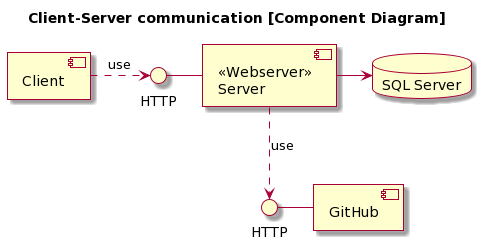
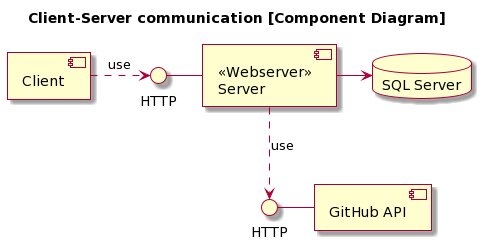
update deployed app section &
Slightly update diagram

Changed region(s): [[0.77, 0.7459, 0.924, 0.9754], [0.616, 0.7746, 0.6468, 0.9467]]

diff --git a/docs/report.md b/docs/report.md
@@ -22,15 +22,19 @@ Here comes a description of our domain model.
 
 ## Architecture of deployed application
 
-UML component diagram shows components, provided and required interfaces, ports, and relationships between them.
+<!-- UML component diagram shows components, provided and required interfaces, ports, and relationships between them. -->
 
-UML deployment diagrams overview, common types of deployment diagrams - manifestation diagram, specification and instance level deployment diagram.
+The following component diagram shows how the different high level components communicate with each other.
 
 ![Client-Server communication component diagram](/docs/images/architecture-of-deployed-app/component-communication.png)
 
-The web server communicates only with the GitHub API to get the email (AND THE PROFILE PICTURE??) of the user.
+The client communicates with the web server using HTTP requests. The server itself uses HTTP requests to get information about the user from the GitHub API. Furthermore, the server has a connection to the SQL Server which contains the database.
+
+The following deployment diagram shows the artifacts of the system and where they are deployed.
 
 ![Deployment diagram](/docs/images/architecture-of-deployed-app/deployment-diagram.png)
+
+Each client computer uses a browser, which uses HTTP requests, to access the website. The Chirp.Web project executable is deployed on an Azure App Server which hosts it, and has a connection to an Azure SQL Server. The SQL Server contains a database with all the persistent data of the "Chirp!" application.
 
 ## User activities
 
